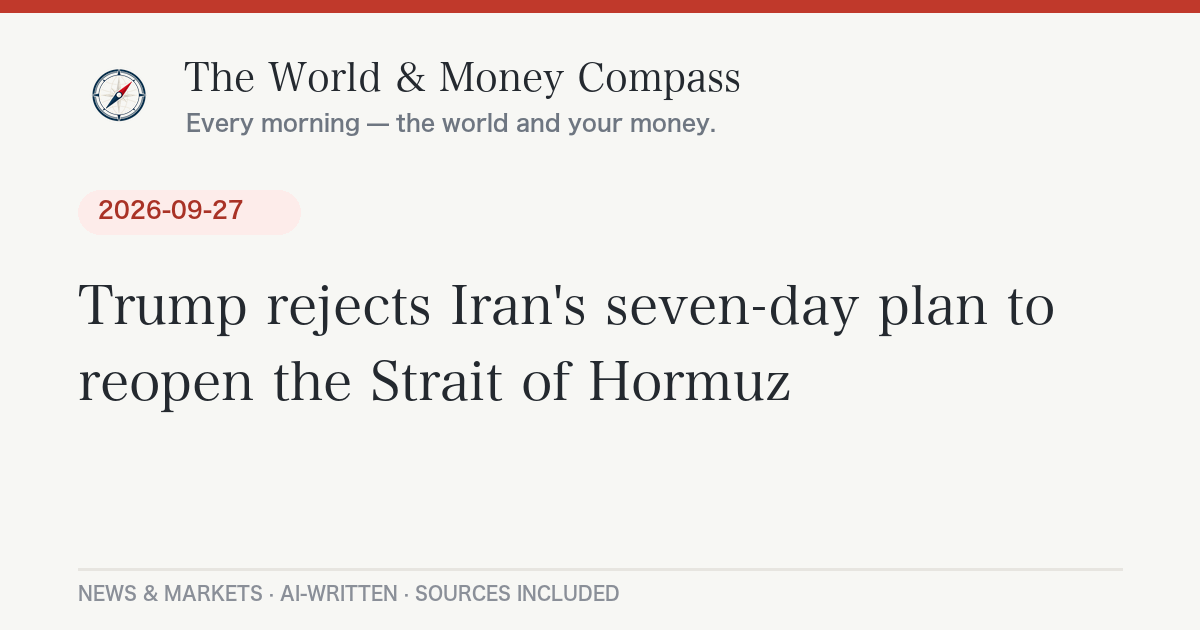
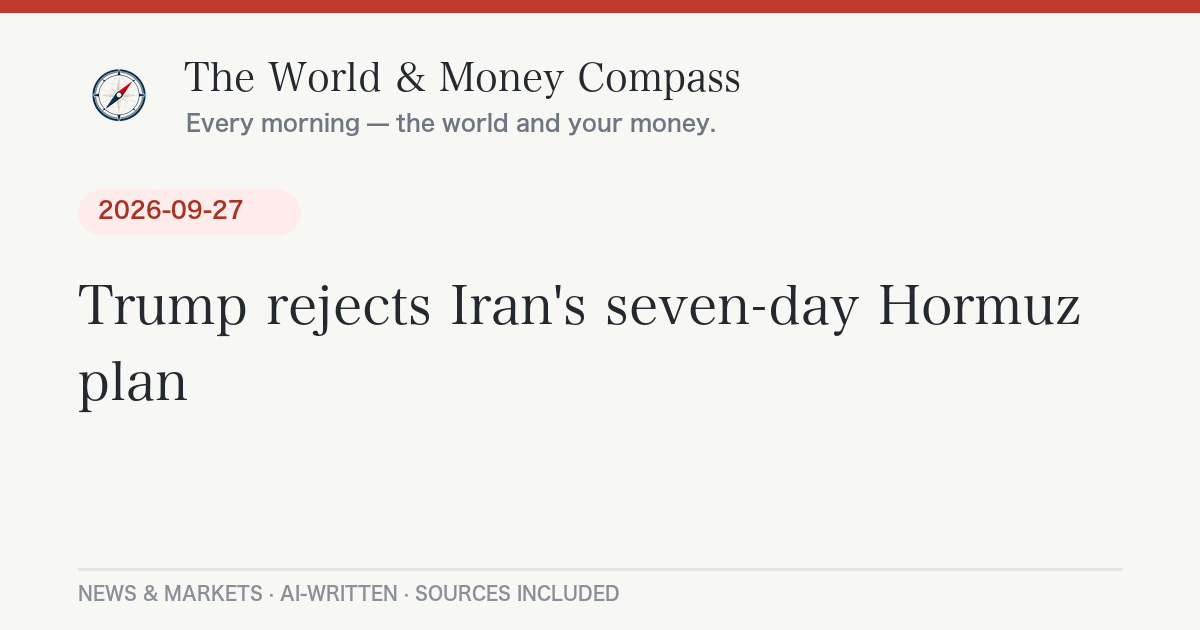
Daily briefing 2026-09-29

Changed region(s): [[0.0617, 0.573, 0.6783, 0.6635], [0.7092, 0.4524, 0.8942, 0.5127], [0.7092, 0.5127, 0.74, 0.5429]]

diff --git a/_posts/2026-09-29-daily-briefing.md b/_posts/2026-09-29-daily-briefing.md
@@ -1,0 +1,103 @@
+---
+layout: post
+lang: ja
+title: "米10年債利回りが2007年以来の高水準、トランプ氏のイラン和平案拒否で原油高｜9月29日のニュースとお金"
+date: 2026-09-29 08:43:27 +0900
+categories: [ニュース, 経済]
+headline: "米10年債利回りが2007年以来の高水準、トランプ氏のイラン和平案拒否で原油高"
+permalink: /2026/09/29/daily-briefing/
+---
+
+## 今日のポイント
+
+トランプ大統領がイランの和平案を退けたことで原油が上がり、「物価がまた上がるのでは」という心配から米国の長期金利が約19年ぶりの高さまで上がりました。米国株は3指数そろって下落。日本ではニデックの巨額損失報道が市場を揺らし、日経平均も6日ぶりに下げました。
+
+## 今日の羅針盤（Compass Insight）
+
+きのうの市場を貫いていたのは「原油高→物価高→金利高」の連鎖です。トランプ氏がイランの和平案を拒んだことで、ホルムズ海峡の再開が遠のくとの見方から原油が上昇。これがインフレ再燃の不安を呼び、米10年債利回りは2007年以来の水準まで上がりました。金利が上がると、将来の利益を先取りして買われていたハイテク株ほど割高に見えやすく、ナスダックの下げがダウより大きかったのはそのためと考えられます。
+
+家計への影響で言えば、米国の金利上昇は日本の長期金利にも上向きの圧力をかけやすく、固定型の住宅ローン金利や企業の借入コストに波及する可能性があります。一方、円相場は日米当局の円安けん制発言で1ドル156円台まで円高に振れる場面がありました。円安が一服すれば輸入品やエネルギーの値上がりが多少和らぐ期待もありますが、原油そのものが高ければ効果は限られます。
+
+短期では、今週の米イラン協議が実際に始まるか、10月1日の日銀短観、10月2日の米雇用統計、そして9月30日のニデック決算が注目点です。中長期では、「高い金利がどこまで続くか」と「企業統治への信頼」の2つが、日米の株価を左右しそうです。
+
+## 今日のニュース
+
+### 日本
+
+- **ニデック株がストップ安**：不正会計に絡み1兆円規模の減損損失を計上し、岸田社長を解任するとの報道を受け、28日の東京市場でニデック株は一時、前営業日比500円安の[2,340円でストップ安](https://news.yahoo.co.jp/articles/cf926af0b92de920c3d38657895e0b7bd6b53919)となりました。会社側は役員変更や大規模な減損処理を[「検討していることは事実」としつつ、決定事項はないとコメント](https://news.yahoo.co.jp/articles/4f2277882b43944b06eb908138fffdf6d9e547ed)。9月30日の決算発表が焦点です。
+- **円安けん制で円が上昇**：日米両政府の要人から円安をけん制する発言が相次ぎ、28日の東京市場で円は一時[1ドル＝156円51銭近辺](https://www.nikkei.com/article/DGXZQOFL286770Y6A920C2000000/)と約1週間ぶりの円高水準をつけました。
+- **任天堂株が4日続落**：UBS証券が投資判断を「ニュートラル」から「セル（売り）」に引き下げ、目標株価を[7,800円から5,500円に下げました](https://finance.yahoo.co.jp/news/detail/0adffcf90bdc3581a82ca2bb64b7ce2750f491eb)。
+
+### 世界
+
+- **トランプ氏、イランの和平案を拒否**：イランが国連総会で示し、カタールを通じて米国に伝えた戦争終結案を、トランプ大統領は退けました。一方で、今週も米国の交渉担当者がイランとの協議を続ける見通しだと語っています（[Yahoo Finance](https://finance.yahoo.com/energy/articles/oil-rebounds-trump-rejects-iran-221457073.html)）。
+- **ウクライナの首都キーウに攻撃**：ロシアによる28日の攻撃で、女性1人が死亡し、子ども3人を含む[24人がけが](https://www.pravda.com.ua/eng/news/2026/09/28/8055496/)をしました（ウクラインスカ・プラウダ集計）。
+
+### アメリカ
+
+- **ボーイング株が急落**：米連邦航空局（FAA）が、ソフトウエアの不具合を調べるため「737 MAX 10」の型式証明を[遅らせると発表](https://www.cnbc.com/2026/09/28/faa-boeing-737-max-10-certification-delay-software-issue.html)。着陸をやり直す特定の場面で自動の飛行誘導が使えなくなる可能性があるとされています。
+- **ホワイトハウスが予算の取り消しへ**：議会がすでに承認した8億ドル超の予算を、政権が「ポケット・リシジョン」と呼ばれる手法で[一方的に取り消す動き](https://www.kosu.org/politics/2026-09-28/white-house-cancels-funding-and-sets-up-clash-with-congress)を進めており、議会との対立が予想されます。難民支援や移民の生徒向けサービス、医療研究などが対象です。
+
+### ヨーロッパ
+
+- **セルビアのブチッチ大統領が辞任**：ブチッチ大統領は27日、任期を約8カ月残して辞任しました。10月25日の議会選挙を経て首相に就くことを狙った動きと見られています。後任が選ばれるまでブルナビッチ議長が[大統領職を代行](https://europeanwesternbalkans.com/2026/09/28/ana-brnabic-becomes-acting-president-of-serbia/)し、大統領選は[12月27日までに実施](https://www.osw.waw.pl/en/publikacje/analyses/2026-09-28/serbias-president-vucic-resigns-a-one-man-show)されます。
+
+## 経済とお金の動き
+
+### 世界の経済と原油・相場
+
+| 指標 | 値 | 前日比 |
+|---|---|---|
+| 日経平均株価（9/28終値） | [65,877.62円](https://www.nikkei.com/article/DGXZQOFL284KW0Y6A920C2000000/) | <span class="chg-down">-486.58円（-0.73%）</span> |
+| NYダウ（9/28終値） | [51,481.51ドル](https://finance.yahoo.com/markets/live/stock-market-today-monday-september-28-dow-sp-500-nasdaq-080420627.html) | <span class="chg-down">-347.11ドル（-0.67%）</span> |
+| S&P500（9/28終値） | [7,683.69](https://finance.yahoo.com/markets/live/stock-market-today-monday-september-28-dow-sp-500-nasdaq-080420627.html) | <span class="chg-down">約-0.8%</span> |
+| ナスダック総合（9/28終値） | 26,820.38（Yahoo Finance API） | <span class="chg-down">約-0.9%</span> |
+| WTI原油（9/28清算値） | [92.60ドル/バレル](https://www.cnbc.com/2026/09/28/oil-price-today-wti-brent-trump-iran.html) | <span class="chg-up">+0.19ドル</span> |
+| 米10年債利回り | [約5.24%](https://www.fxstreet.com/news/us-10-year-yield-revisits-2007-heights-as-curve-flirts-with-inversion-202609281803) | <span class="chg-up">上昇（2007年以来の高水準）</span> |
+| ドル円（ECB参照、9/28基準） | [156.88円](https://api.frankfurter.app/latest?from=USD&to=JPY) | — |
+
+原油はトランプ氏の和平案拒否を受けて一時大きく上がり、WTIは日中に96ドル台をつけましたが、終わってみれば[小幅高](https://www.cnbc.com/2026/09/28/oil-price-today-wti-brent-trump-iran.html)にとどまりました。値動きの大きさそのものが、中東情勢への市場の神経質さを表しています。
+
+### アメリカの経済
+
+米10年債利回りは一時[5.274%まで上がり、2007年6月以来の高さ](https://www.fxstreet.com/news/us-10-year-yield-revisits-2007-heights-as-curve-flirts-with-inversion-202609281803)をつけました。30年債も2004年以来の水準です。背景には、原油高によるインフレの長期化と、FRB（米連邦準備制度理事会）がさらに利上げするとの観測があります。加えて、政府や企業（AI関連を含む）の大量の債券発行も金利を押し上げる要因になっています。今週は米雇用統計など重要な経済指標が相次ぎ、金利の行方を左右しそうです。
+
+### 日本の経済
+
+日経平均は朝方に約1カ月半ぶりに6万7,000円台を回復しましたが、午後に売りが広がり、[6日ぶりに反落](https://www.nikkei.com/article/DGXZQOUB280BETY6A920C2000000/)しました。直前の5営業日で3,000円近く上がっていたことによる利益確定売りや、世界的な金利上昇・中東情勢への警戒が重荷になりました。円相場は当局のけん制発言で円高方向に振れており、10月1日の日銀短観とあわせて為替の動きにも注目です。
+
+## 今日の注目銘柄・セクター
+
+- **ニデック**：1兆円規模の減損と社長解任の報道で[ストップ安](https://www.bloomberg.com/jp/news/articles/2026-09-28/TM1R14KJH6V400)。9月30日の決算会見で、損失の規模や経営体制がどう示されるかが焦点です。
+- **任天堂**：UBS証券の格下げで続落。主力タイトルの寄与低下やメモリー価格の上昇が利益を圧迫するとの見方が示されました（[日本経済新聞](https://www.nikkei.com/article/DGXZQOFL282T10Y6A920C2000000/)）。
+- **ボーイングと航空機関連**：737 MAX 10の認証延期でボーイング株は[約7%下落](https://www.cp24.com/news/money/2026/09/28/us-federal-aviation-regulator-delays-boeing-737-max-10-certification-shares-dive-7/)。エンジンを手がけるGEエアロスペースも[下げました](https://www.gurufocus.com/news/9100313/faa-delays-boeing-737-max-10-certification-amid-software-concerns-ba-shares-drop-6)。
+- **ハイテク株**：長期金利の上昇でナスダックの下げがダウより大きくなりました。金利に敏感なセクターとして引き続き注目です。
+
+*※特定銘柄の売買を推奨するものではありません。投資判断はご自身の責任で。*
+
+## まとめ：注目の3つ
+
+1. **米イラン協議の行方**：和平案拒否の後、今週の協議が実際に進むかが原油と金利を左右します。
+2. **米長期金利と今週の指標**：10年債利回りは2007年以来の高さ。10月2日の米雇用統計が次の山場です。
+3. **ニデック決算（9月30日）と日銀短観（10月1日）**：日本企業への信頼と景気の実感を測る材料になります。
+
+---
+<div class="post-sources" markdown="1">
+
+**出典：**
+- [Yahoo Finance・Stock market today: Dow, S&P 500, Nasdaq fall as Treasury yields continue to climb](https://finance.yahoo.com/markets/live/stock-market-today-monday-september-28-dow-sp-500-nasdaq-080420627.html)
+- [Yahoo Finance・Oil prices rise 2% after Trump rejects Iran peace deal](https://finance.yahoo.com/energy/articles/oil-rebounds-trump-rejects-iran-221457073.html)
+- [CNBC・Oil price today: WTI, Brent, Trump, Iran](https://www.cnbc.com/2026/09/28/oil-price-today-wti-brent-trump-iran.html)
+- [FXStreet・US 10-year yield revisits 2007 heights](https://www.fxstreet.com/news/us-10-year-yield-revisits-2007-heights-as-curve-flirts-with-inversion-202609281803)
+- [CNBC・Boeing 737 Max 10 certification delayed by software issue](https://www.cnbc.com/2026/09/28/faa-boeing-737-max-10-certification-delay-software-issue.html)
+- [KOSU（NPR）・White House cancels funding and sets up clash with Congress](https://www.kosu.org/politics/2026-09-28/white-house-cancels-funding-and-sets-up-clash-with-congress)
+- [日本経済新聞・日経平均終値486円安 リスク回避の売り](https://www.nikkei.com/article/DGXZQOUB280BETY6A920C2000000/)
+- [日本経済新聞・外為17時 円相場、大幅続伸](https://www.nikkei.com/article/DGXZQOFL286770Y6A920C2000000/)
+- [Bloomberg・ニデック株ストップ安](https://www.bloomberg.com/jp/news/articles/2026-09-28/TM1R14KJH6V400)
+- [OSW・Serbia's President Vučić resigns](https://www.osw.waw.pl/en/publikacje/analyses/2026-09-28/serbias-president-vucic-resigns-a-one-man-show)
+- [Ukrainska Pravda・Russian attacks on Kyiv kill one woman and injure 24 people](https://www.pravda.com.ua/eng/news/2026/09/28/8055496/)
+- 市場データ: [frankfurter API](https://api.frankfurter.app/) ／ Yahoo Finance ほか
+
+*本記事は公開情報をもとに作成しています。*
+
+</div>

diff --git a/_posts/2026-09-29-daily-briefing-en.md b/_posts/2026-09-29-daily-briefing-en.md
@@ -1,0 +1,50 @@
+---
+layout: post
+lang: en
+title: "10-year Treasury yield hits highest since 2007 as Trump rejects Iran peace offer — September 29, 2026"
+date: 2026-09-29 08:43:27 +0900
+headline: "10-year Treasury yield hits highest since 2007 as Trump rejects Iran peace offer"
+permalink: /2026/09/29/daily-briefing/
+---
+
+## Top U.S. Stories
+
+- **Trump rejects Iran's peace proposal.** Iran's plan to end the war, relayed through Qatari mediators after the U.N. General Assembly, was turned down, though Trump said U.S. negotiators should hold more talks this week ([Yahoo Finance](https://finance.yahoo.com/energy/articles/oil-rebounds-trump-rejects-iran-221457073.html)).
+  *Why it matters:* A reopened Strait of Hormuz now looks further away, keeping oil and inflation risks elevated.
+- **Treasury yields climb to a 19-year high.** The 10-year yield touched [5.274%, its highest since June 2007](https://www.fxstreet.com/news/us-10-year-yield-revisits-2007-heights-as-curve-flirts-with-inversion-202609281803), while the 30-year reached levels not seen since 2004.
+  *Why it matters:* Higher long-term rates feed straight into mortgages, car loans and corporate borrowing costs.
+- **FAA delays Boeing 737 MAX 10 certification.** The regulator will review a software issue that could cut off automated flight guidance during a go-around, sending [Boeing shares down about 7%](https://www.cp24.com/news/money/2026/09/28/us-federal-aviation-regulator-delays-boeing-737-max-10-certification-shares-dive-7/) ([CNBC](https://www.cnbc.com/2026/09/28/faa-boeing-737-max-10-certification-delay-software-issue.html)).
+- **White House moves to claw back funds.** The administration is pursuing a pocket rescission of [more than $800 million](https://www.kosu.org/politics/2026-09-28/white-house-cancels-funding-and-sets-up-clash-with-congress) Congress already approved, setting up a clash with lawmakers.
+
+## Compass Insight
+
+Monday's market told one story: oil up, inflation fears up, yields up, stocks down. By rejecting Iran's offer, Trump signaled that a deal will come on his terms or not soon, and bond traders responded by pricing in a Fed that stays tight, or tightens further. Rate-sensitive tech lagged the Dow, a reminder that valuations built on low rates are the first to feel the squeeze. Note, too, that heavy government and AI-related bond issuance is adding to the pressure on yields independently of the Middle East. In the short term, watch whether this week's U.S.-Iran talks actually happen and Friday's jobs report. Over the longer run, the key question is how long households and companies can live with 5%-plus long-term rates.
+
+## Markets
+
+- **Dow:** [51,481.51](https://finance.yahoo.com/markets/live/stock-market-today-monday-september-28-dow-sp-500-nasdaq-080420627.html), down 347.11 points (-0.67%)
+- **S&P 500:** 7,683.69, down about 0.8%
+- **Nasdaq Composite:** 26,820.38, down about 0.9%
+- **WTI crude:** settled at [$92.60](https://www.cnbc.com/2026/09/28/oil-price-today-wti-brent-trump-iran.html), up 19 cents, after hitting $96.54 intraday
+- **USD/JPY:** 156.88 (ECB reference rate, Sept. 28, via [Frankfurter](https://api.frankfurter.app/latest?from=USD&to=JPY))
+- **Nikkei 225:** [65,877.62](https://www.nikkei.com/article/DGXZQOFL284KW0Y6A920C2000000/), down 486.58, its first loss in six sessions
+
+## Stocks in Focus
+
+- **Boeing / GE Aerospace:** Both fell on the MAX 10 certification delay ([GuruFocus](https://www.gurufocus.com/news/9100313/faa-delays-boeing-737-max-10-certification-amid-software-concerns-ba-shares-drop-6)).
+- **Nidec (Japan):** Shares hit limit-down in Tokyo on reports of a roughly ¥1 trillion impairment tied to accounting irregularities and the ouster of its president ([Bloomberg](https://www.bloomberg.com/jp/news/articles/2026-09-28/TM1R14KJH6V400)). Earnings are due Sept. 30.
+
+<div class="post-sources" markdown="1">
+
+**Sources:**
+- [Yahoo Finance — Stock market today, Sept. 28](https://finance.yahoo.com/markets/live/stock-market-today-monday-september-28-dow-sp-500-nasdaq-080420627.html)
+- [Yahoo Finance — Oil prices rise after Trump rejects Iran peace deal](https://finance.yahoo.com/energy/articles/oil-rebounds-trump-rejects-iran-221457073.html)
+- [CNBC — Oil price today](https://www.cnbc.com/2026/09/28/oil-price-today-wti-brent-trump-iran.html)
+- [FXStreet — US 10-year yield revisits 2007 heights](https://www.fxstreet.com/news/us-10-year-yield-revisits-2007-heights-as-curve-flirts-with-inversion-202609281803)
+- [CNBC — Boeing 737 Max 10 certification delayed](https://www.cnbc.com/2026/09/28/faa-boeing-737-max-10-certification-delay-software-issue.html)
+- [KOSU/NPR — White House cancels funding](https://www.kosu.org/politics/2026-09-28/white-house-cancels-funding-and-sets-up-clash-with-congress)
+- Market data: [Frankfurter API](https://api.frankfurter.app/) / Yahoo Finance
+
+</div>
+
+*Auto-generated and AI-written. Not investment advice.*
